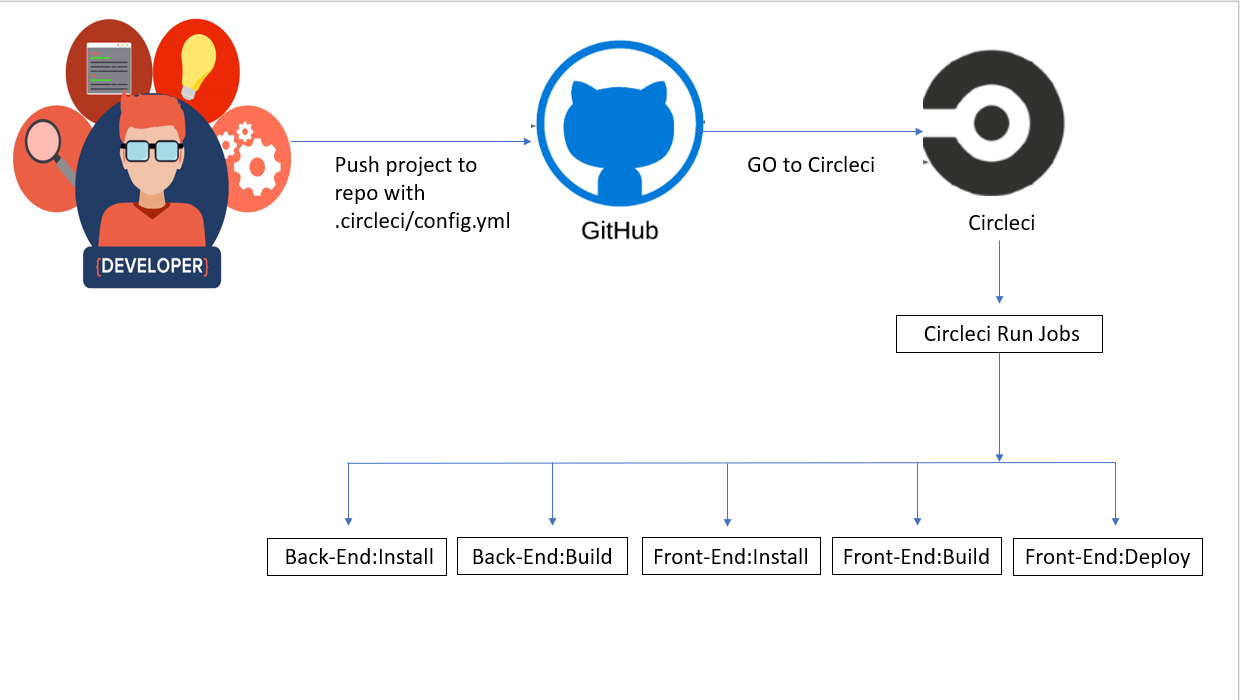
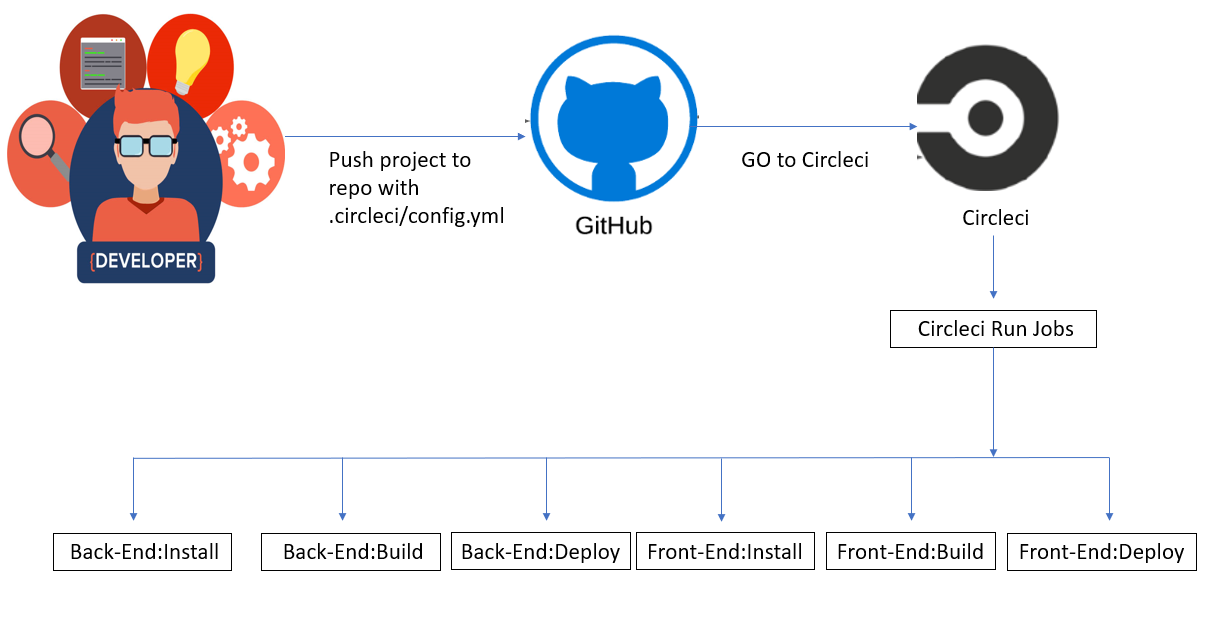
update documentation

diff --git a/ReadmeDocs/pipelines.md b/ReadmeDocs/pipelines.md
@@ -5,30 +5,12 @@
 ### Continuous Integration
 #### CircleCI
 CircleCI reads the `.circleci/config.yml` file 
-there are 5 jobs to be run by CircleCI.
-      - run:
-          name: Back-End Install
-          command: |
-            npm run backend:install
-      - run:
-          name: Back-End Build
-          command: |
-            npm run backend:build
-      - run:
-          name: Front-End Install
-          command: |
-            npm run frontend:install
-      - run:
-          name: Front-End Build
-          command: |
-            npm run frontend:build
-      - run:
-          name: Front-End Deploy
-          command: |
-            npm run frontend:deploy
+there are 6 jobs to be run by CircleCI.
 - **Back-End Install**: Runs the `npm run backend:install` script given in the `package.json` file
 
 - **Back-End Build**: Runs the `npm run backend:build` script given in the `package.json` file
+
+- **Back-End Deploy**: Runs the `npm run backend:deploy` script given in the `package.json` file
 
 - **Front-End Install**: Runs the `npm run frontend:install` script given in the `package.json` file
 
